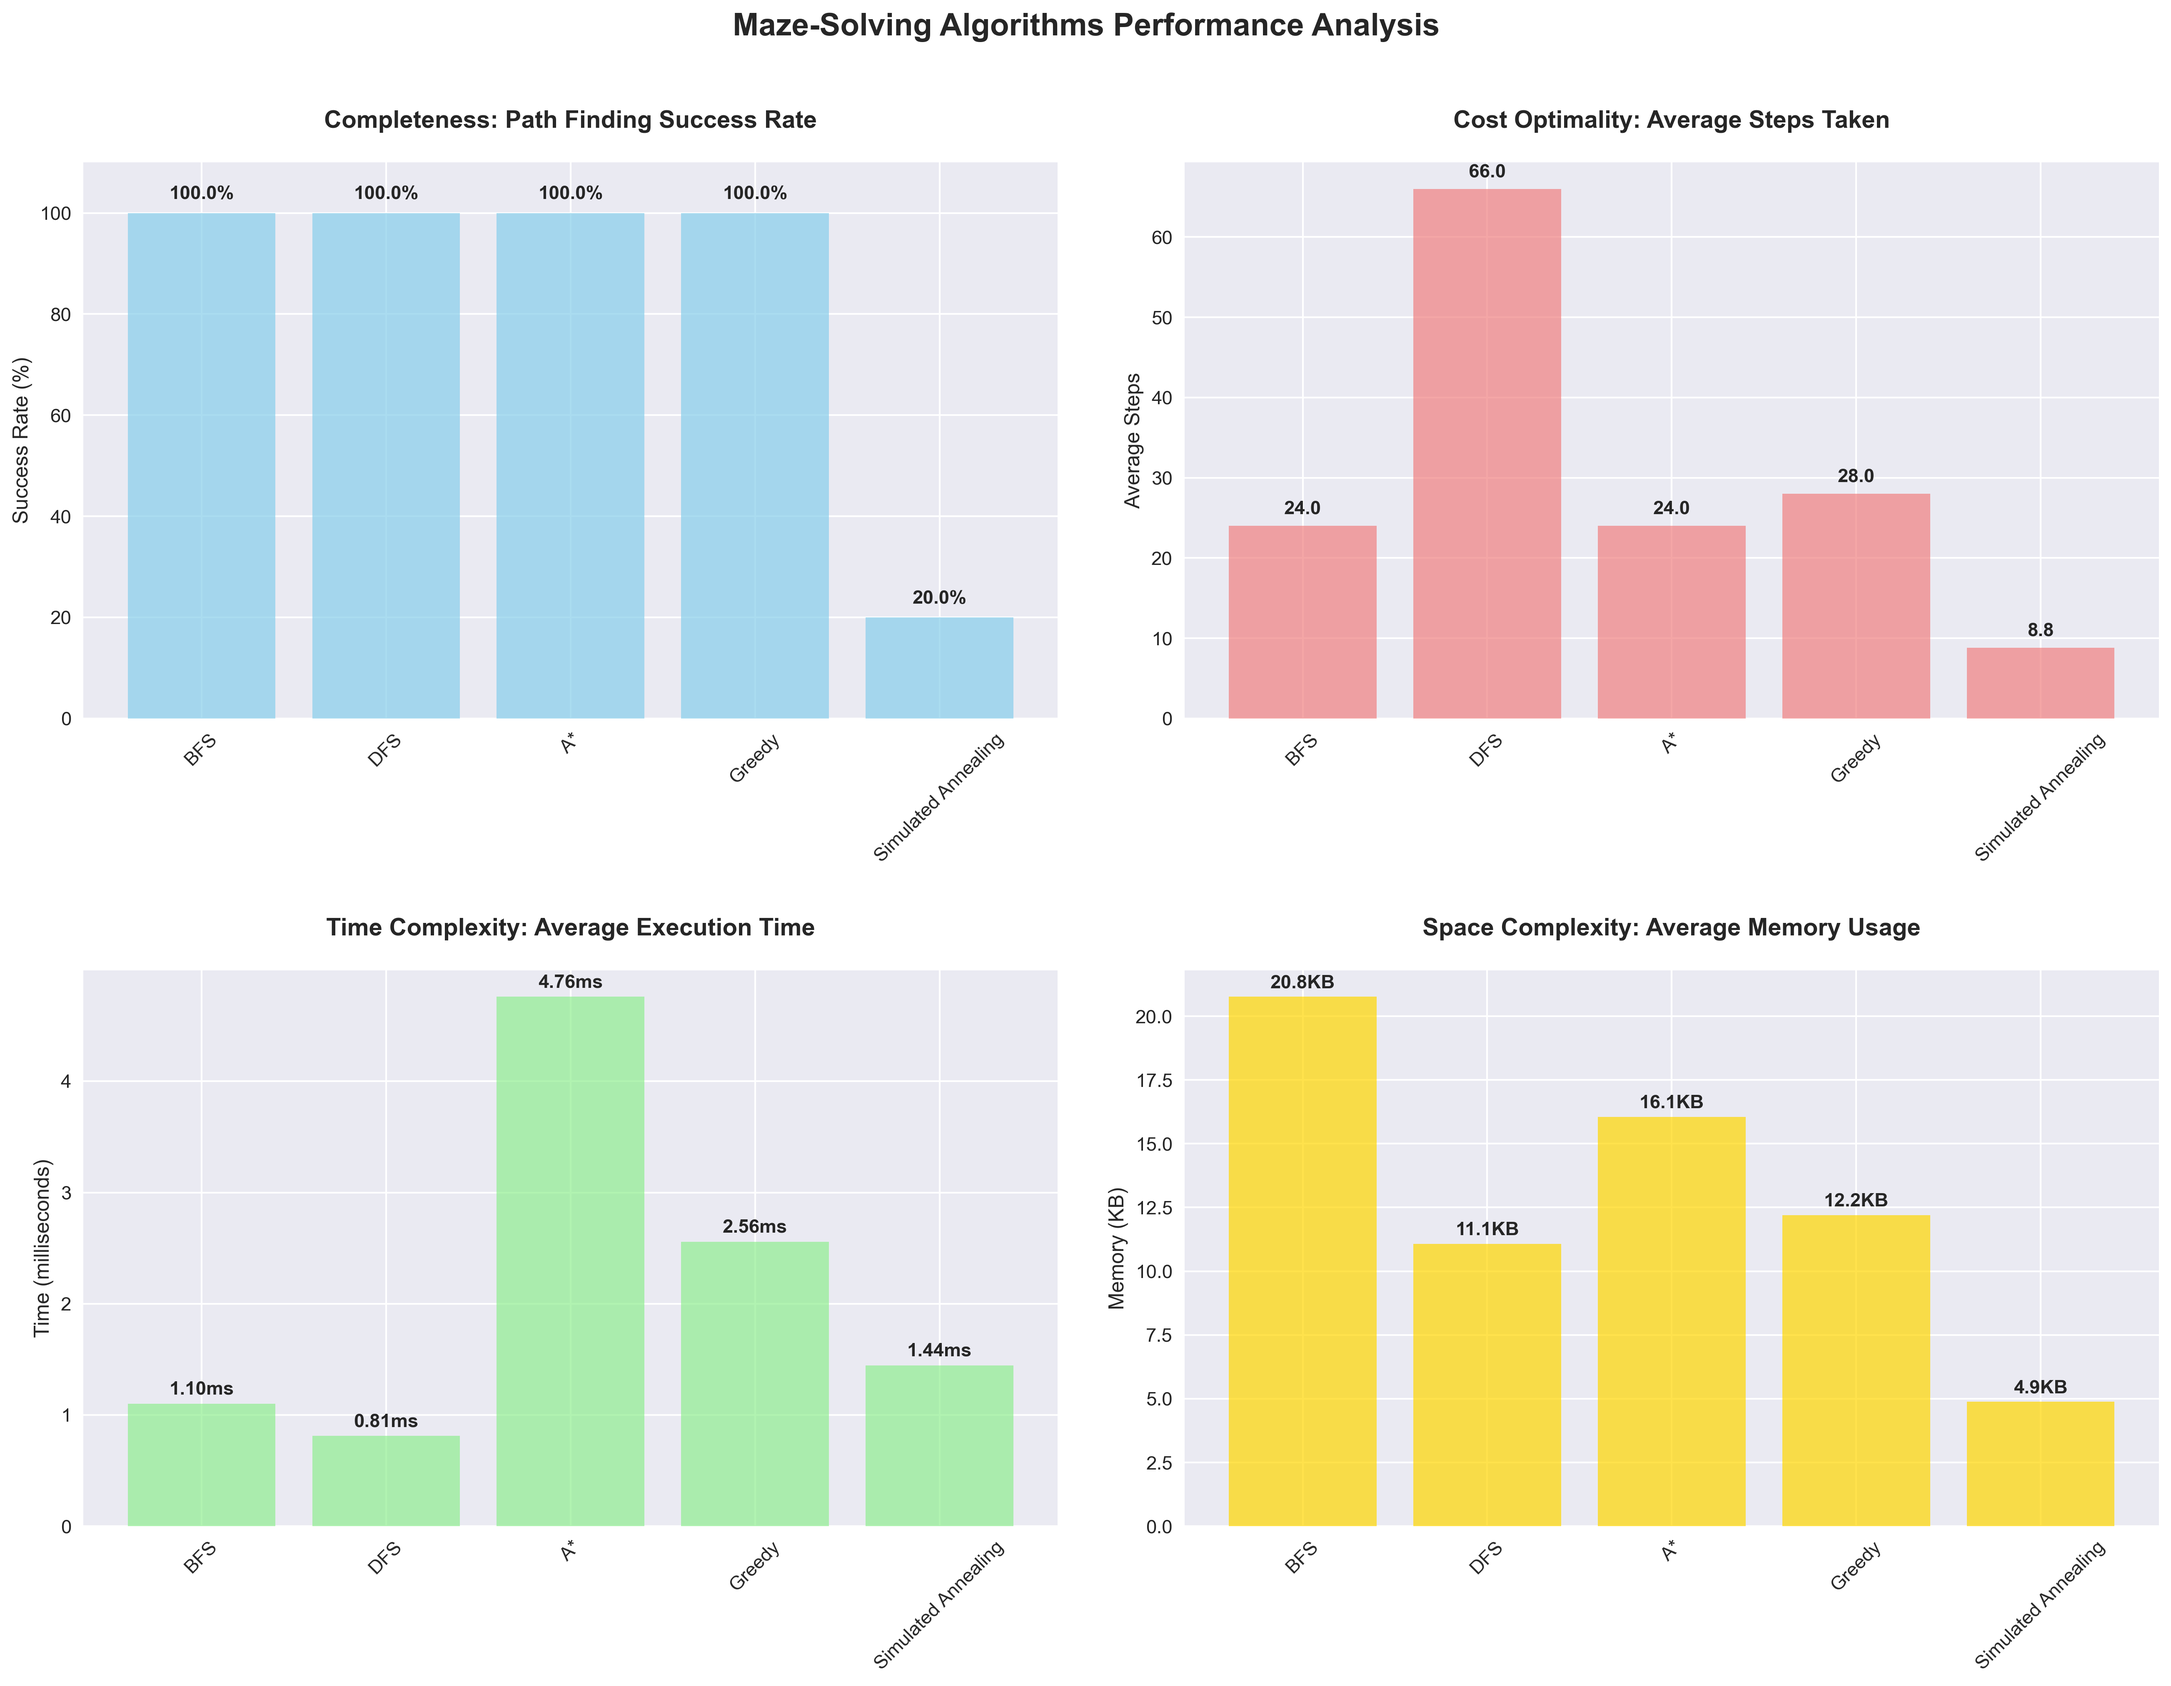
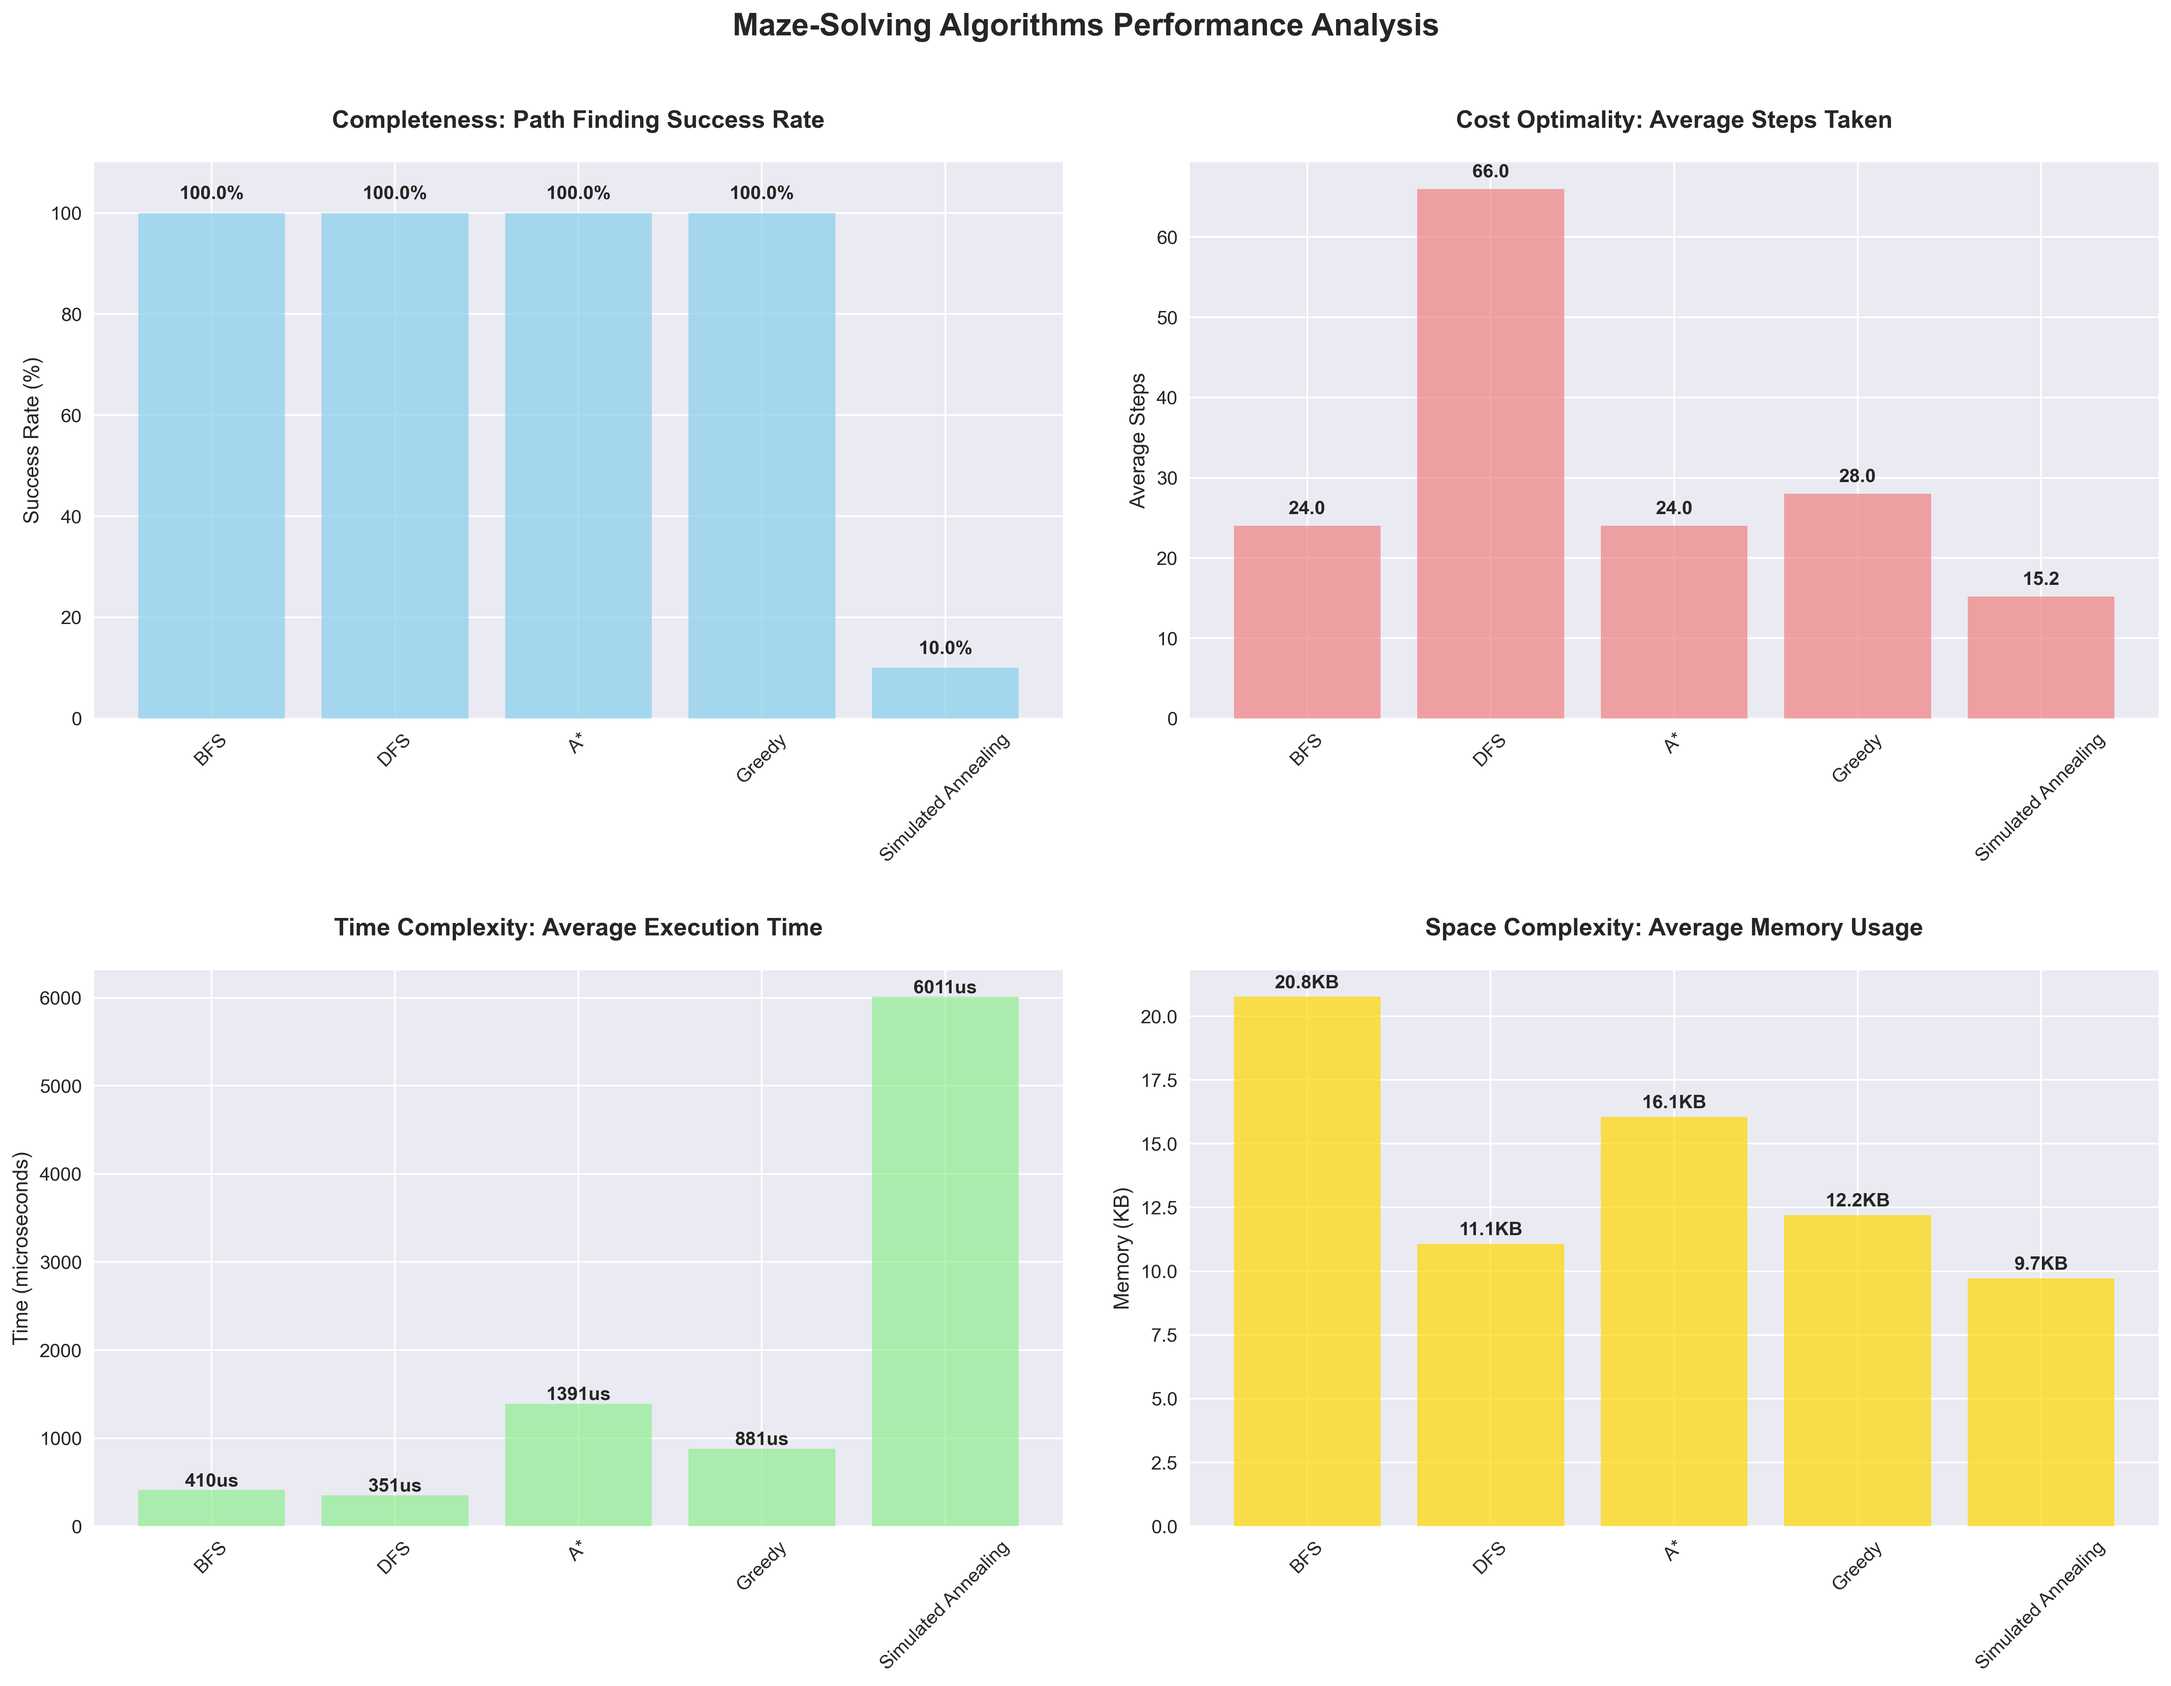
Update algorithm analysis report and improve output formatting
- Revised success rates and performance metrics for Simulated Annealing.
- Enhanced time and space complexity reporting format to use "±" and "us" for clarity.
- Updated detailed results section to include test case outcomes with success indicators.
- Adjusted the analysis script to reflect changes in output formatting for consistency.

diff --git a/src/utils/analysis.py b/src/utils/analysis.py
@@ -232,7 +232,7 @@ class AlgorithmAnalyzer:
         for i, (bar, v) in enumerate(zip(bars3, time_data)):
             height = bar.get_height()
             axes[1, 0].text(bar.get_x() + bar.get_width()/2., height + 0.05,
-                           f'{v:.0f}μs', ha='center', va='bottom', fontsize=11, fontweight='bold')
+                           f'{v:.0f}us', ha='center', va='bottom', fontsize=11, fontweight='bold')
         
         # 4. Space Complexity Comparison (Algorithm vs Average Memory)
         memory_data = [metrics['space_complexity'][alg]['mean'] / 1024 for alg in self.algorithms.keys()]  # Convert to KB
@@ -376,7 +376,7 @@ class AlgorithmAnalyzer:
             for alg in self.algorithms.keys():
                 avg_steps = metrics['cost_optimality'][alg]['mean']
                 std_steps = metrics['cost_optimality'][alg]['std']
-                f.write(f"{alg:20}: {avg_steps:6.1f} ± {std_steps:.1f} steps\n")
+                f.write(f"{alg:20}: {avg_steps:6.1f} +/- {std_steps:.1f} steps\n")
             f.write("\n")
             
             # Time Complexity Analysis
@@ -385,7 +385,7 @@ class AlgorithmAnalyzer:
             for alg in self.algorithms.keys():
                 avg_time = metrics['time_complexity'][alg]['mean'] * 1000000  # Convert to microseconds
                 std_time = metrics['time_complexity'][alg]['std'] * 1000000
-                f.write(f"{alg:20}: {avg_time:6.0f} ± {std_time:.0f} μs\n")
+                f.write(f"{alg:20}: {avg_time:6.0f} +/- {std_time:.0f} us\n")
             f.write("\n")
             
             # Space Complexity Analysis
@@ -394,7 +394,7 @@ class AlgorithmAnalyzer:
             for alg in self.algorithms.keys():
                 avg_memory = metrics['space_complexity'][alg]['mean'] / 1024  # Convert to KB
                 std_memory = metrics['space_complexity'][alg]['std'] / 1024
-                f.write(f"{alg:20}: {avg_memory:6.1f} ± {std_memory:.1f} KB\n")
+                f.write(f"{alg:20}: {avg_memory:6.1f} +/- {std_memory:.1f} KB\n")
             f.write("\n")
             
             # Detailed Results for Each Test Case
@@ -407,11 +407,11 @@ class AlgorithmAnalyzer:
                 for alg_name, result in test_case_results.items():
                     f.write(f"  {alg_name:18}: ")
                     if result['path_found']:
-                        f.write(f"✓ Path found ({result['steps']} steps, ")
-                        f.write(f"{result['time_taken']*1000000:.0f}μs, ")
+                        f.write(f"[OK] Path found ({result['steps']} steps, ")
+                        f.write(f"{result['time_taken']*1000000:.0f}us, ")
                         f.write(f"{result['peak_memory']/1024:.1f}KB)\n")
                     else:
-                        f.write("✗ No path found\n")
+                        f.write("[FAIL] No path found\n")
                 f.write("\n")
         
         print(f"Detailed report saved to: {save_path}")
